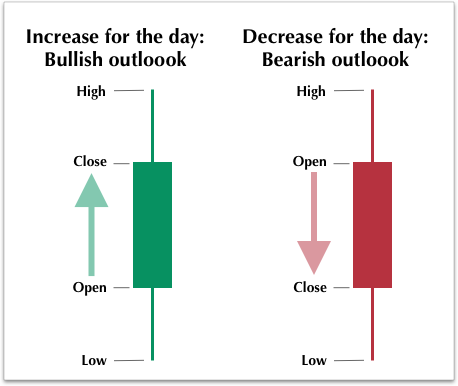
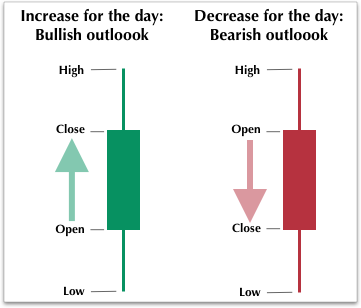
SCAL-37271 and SCAL-43912 reviewed first draft and decreased size of the schematic images

diff --git a/_end-user/search/candlestick-charts.md b/_end-user/search/candlestick-charts.md
@@ -25,9 +25,12 @@ Candlestick charts have a very specific approach to representing data:
   ![]({{ site.baseurl }}/images/candlestick_components.png "Components of a Candlestick chart"){: .image-left }
 
 * The _High_ and _Low_ values plot at the top and bottom of the candlestick.
+
 * The _Open_ and _Close_ positions vary, depending on the relative values of the price at opening and closing of the trading day.
+
 * The height of the rectangle depends on the difference between the _Open_ and _Close_ prices, and does not indicate the volume of trades.
-* The 'wick' that extends upwards from the rectangle indicates the difference between the highest of [_Open_ | _Close_] and highest traded value, _High_. Similarly for the extension downwards from the lowest of [_Open_ | _Close_] and the lowest traded value, _Low_.
+
+* The 'wick' that extends upwards from the rectangle indicates the difference between the highest of _Open_ or _Close_, and highest traded value (_High_). Similarly for the extension downwards from the lowest of _Open_ or _Close_, and the lowest traded value (_Low_).
 
 * Your search must start with the four mandatory measures. Additionally, it must have a periodicity, such as `daily`. The search question has to be in the following form:
   ```
@@ -35,10 +38,12 @@ Candlestick charts have a very specific approach to representing data:
   ```
   The order of these measurements is critical to correctly generate the candlestick chart.
 
+  ![]({{ site.baseurl }}/images/candlestick_increase_decrease.png "Increasing and Decreasing Candlesticks"){: .image-left }
+
 * The candlestick chart does not show the volume of trades. However, the longer body of the candle generally correlates with the intensity of trading.
 
-  ![]({{ site.baseurl }}/images/candlestick_increase_decrease.png "Increasing and Decreasing Candlesticks"){: .image-left }
 * When the rectangle is green and high relative to other time periods, this is an indicator that the market for the financial instrument is very bullish, with a likely "buy" recommendation.
+
 * Alternatively, the red rectangles mean that the price is decreasing, and this pattern over time describes a bearish "sell" market for the instrument.
 
 ## Interpreting candlestick charts

diff --git a/_end-user/search/about-charts.md b/_end-user/search/about-charts.md
@@ -35,7 +35,7 @@ To change the chart type of your answer:
 Hovering over a chart type icon tell you what columns you require before you can use it.
 
 -   **[Column charts]({{ site.baseurl }}/end-user/search/about-column-charts.html)**  
-The column chart is one of ThoughtSpot's simplest, yet most versatile chart type. The column chart is often the chosen default chart type, and displayes data as vertical columns.
+The column chart is one of ThoughtSpot's simplest, yet most versatile chart type. The column chart is often the chosen default chart type, and displays data as vertical columns.
 -  **[Stacked columns] ({{ site.baseurl }}/end-user/search/about-column-charts.html#stacked-columns)**
 The stacked column combines the different secondary dimensions into a single column, stacking them. Note that the dimensions retain their relative size and color.
 -   **[Bar charts]({{ site.baseurl }}/end-user/search/about-bar-charts.html)**  
